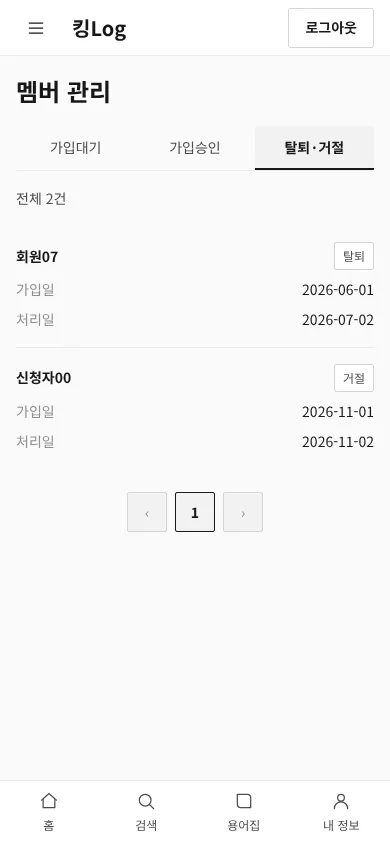
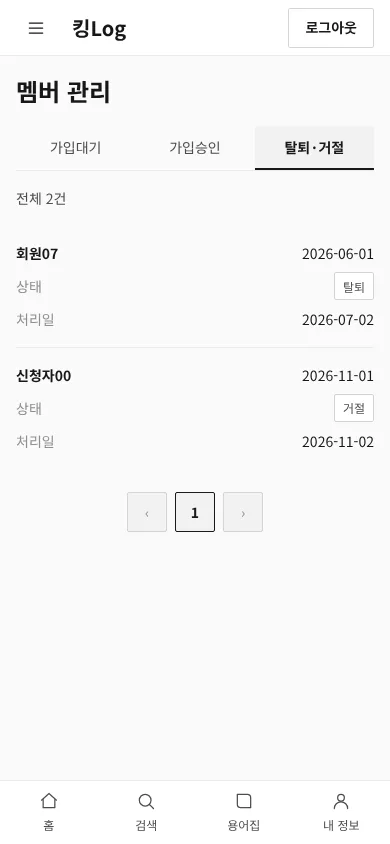
멤버 관리 모바일 카드 통일: 첫 줄 닉네임·가입일, 이하 컬럼명·데이터
Claude-Session: https://claude.ai/code/session_01GfC6kzomQJGH6k4MBTzgWx

diff --git a/docs/mockup/app.js b/docs/mockup/app.js
@@ -374,10 +374,10 @@
       var nick = '<span class="c-fill bold">' + esc(m.nick) + '</span>';
       var row = '';
       if (t === 'pending') {
-        row = line('<span class="c-xs"><label class="check"><input type="checkbox" data-sel="m' + m.id + '"' + (state.sel['m' + m.id] ? ' checked' : '') + '></label></span>' + nick) +
+        row = line('<span class="c-xs"><label class="check"><input type="checkbox" data-sel="m' + m.id + '"' + (state.sel['m' + m.id] ? ' checked' : '') + '></label></span>' + nick + '<span class="c-s m-end m-only">' + esc(m.joined) + '</span>') +
           line(ml('등급 답변') + '<span class="c-s m-end">' + esc(m.grade) + '</span>') +
           line(ml('최근 게시물') + '<span class="c-s m-end"><button class="link" data-act="seek" data-v="링크">링크</button></span>') +
-          line(ml('가입일') + '<span class="c-s m-end">' + esc(m.joined) + '</span>') +
+          '<span class="c-s c-hide">' + esc(m.joined) + '</span>' +
           '<span class="c-act">' + rbtn('승인', 'm-approve', m.id, 'btn-primary') + rbtn('거절', 'm-reject', m.id, 'btn-secondary is-danger') + '</span>';
       }
       if (t === 'ok') {
@@ -386,8 +386,9 @@
           '<span class="c-act">' + rbtn('탈퇴', 'withdraw', m.id, 'btn-secondary is-danger') + '</span>';
       }
       if (t === 'out') {
-        row = line(nick + '<span class="c-s m-end"><span class="chip">' + esc(m.why) + '</span></span>') +
-          line(ml('가입일') + '<span class="c-s m-end">' + esc(m.joined) + '</span>') +
+        row = line(nick + '<span class="c-s m-end m-only">' + esc(m.joined) + '</span>') +
+          line(ml('상태') + '<span class="c-s m-end"><span class="chip">' + esc(m.why) + '</span></span>') +
+          '<span class="c-s c-hide">' + esc(m.joined) + '</span>' +
           line(ml('처리일') + '<span class="c-s m-end">' + esc(m.done) + '</span>');
       }
       h += '<div class="row">' + row + '</div>';

diff --git a/docs/mockup/components.css b/docs/mockup/components.css
@@ -131,6 +131,7 @@ button { font: inherit; color: inherit; background: none; border: 0; cursor: poi
 .c-fill { flex: 1; min-width: 0; }
 .line { display: contents; }
 .m-label { display: none; }
+.m-only { display: none; }
 
 /* ── 모달 · 토스트 · 진행 막대 ── */
 .modal-bg { position: fixed; inset: 0; z-index: var(--z-modal); display: flex; align-items: center; justify-content: center; padding: var(--sp-3); background: var(--c-overlay); }
@@ -223,6 +224,7 @@ button { font: inherit; color: inherit; background: none; border: 0; cursor: poi
   .line { display: flex; align-items: center; gap: var(--sp-3); }
   .m-end { margin-left: auto; }
   .m-label { display: inline; margin-right: var(--sp-1); color: var(--c-text-mute); }
+  .m-only { display: inline; }
   .c-xs, .c-s, .c-m { flex: none; width: auto; }
   .c-act { width: 100%; }
   .m-grow { flex: 1; }
